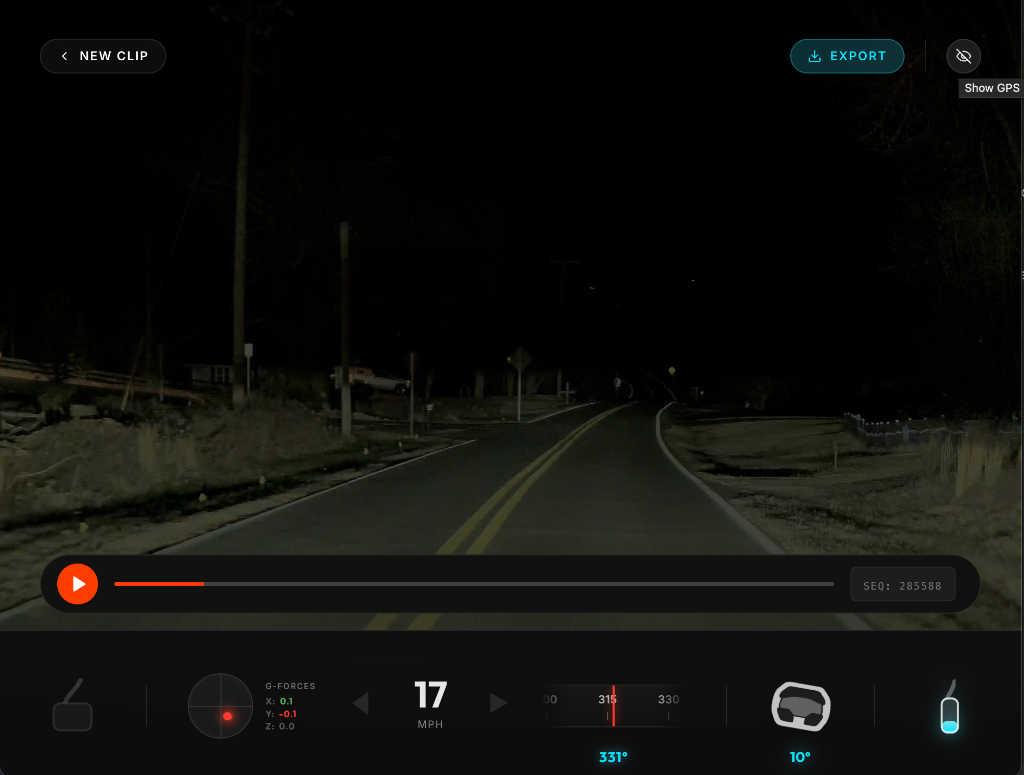
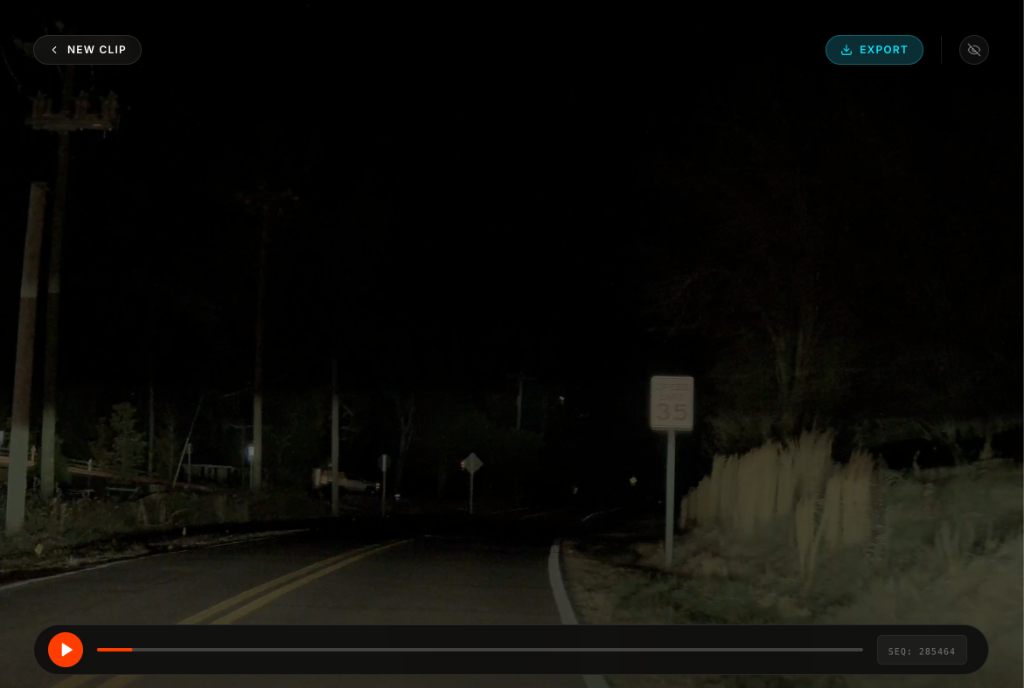
Add Drive Indicator (P,R,N,D)

diff --git a/src/App.tsx b/src/App.tsx
@@ -422,7 +422,9 @@ function App() {
                         </div>
                     </div>
 
-                    <div className="flex-1 flex flex-col items-center justify-center self-center">
+                    <div className="flex-1 flex flex-col items-center justify-start self-stretch">
+                        <div className="h-6 mb-2 invisible" /> {/* Top Spacer matching side components */}
+
                         <div className="flex items-center gap-10">
                             {/* Left Blinker */}
                             <div className={`text-2xl transition-all duration-200 transform ${hudMetadata?.blinkerOnLeft ? 'text-[#4caf50] drop-shadow-[0_0_8px_#4caf50] opacity-100 scale-110' : 'text-white/10 scale-100'}`}>
@@ -430,10 +432,20 @@ function App() {
                             </div>
 
                             <div className="flex flex-col items-center">
-                                <span className="text-4xl font-bold font-outfit text-white/90 leading-none">
-                                    {hudMetadata ? Math.round(hudMetadata.vehicleSpeedMps * 2.237) : 0}
-                                </span>
-                                <span className="text-[10px] opacity-50 uppercase tracking-widest font-inter mt-1">mph</span>
+                                <div className="h-16 flex flex-col justify-center items-center">
+                                    <span className="text-4xl font-bold font-outfit text-white/90 leading-none">
+                                        {hudMetadata ? Math.round(hudMetadata.vehicleSpeedMps * 2.237) : 0}
+                                    </span>
+                                    <span className="text-[10px] opacity-50 uppercase tracking-widest font-inter mt-1">mph</span>
+                                </div>
+
+                                <div className="mt-4 h-5 flex items-center justify-center">
+                                    {hudMetadata && (
+                                        <span className="text-[14px] font-extrabold text-tesla-blue font-outfit drop-shadow-[0_0_8px_#00E5FF] transition-all duration-300">
+                                            {hudMetadata.gearState.replace('GEAR_', '')[0]}
+                                        </span>
+                                    )}
+                                </div>
                             </div>
 
                             {/* Right Blinker */}

diff --git a/src/utils/telemetryRenderer.ts b/src/utils/telemetryRenderer.ts
@@ -150,6 +150,16 @@ function drawCenterCluster(
     ctx.font = `600 ${s(14)}px ${font}`;
     ctx.fillText('MPH', 0, s(45));
 
+    // Gear State
+    if (data.gearState) {
+        const gearLetter = data.gearState.replace('GEAR_', '')[0];
+        ctx.fillStyle = '#00E5FF';
+        ctx.shadowColor = '#00E5FF';
+        ctx.shadowBlur = s(8);
+        ctx.font = `bold ${s(12)}px ${font}`;
+        ctx.fillText(gearLetter, 0, s(56));
+    }
+
     // Blinkers
     const blinkerOffset = s(80);
     const arrowSize = s(32);
@@ -506,7 +516,7 @@ function drawCompass(
     ctx.shadowBlur = 0;
     ctx.fillStyle = '#00E5FF';
     ctx.font = `800 ${s(16)}px ${font}`;
-    ctx.fillText(`${Math.round(heading)}°`, 0, s(40));
+    ctx.fillText(`${Math.round(heading)}°`, 0, s(50));
 
     ctx.restore();
 }
@@ -584,7 +594,7 @@ function drawSteeringWheel(
     ctx.fillStyle = '#00E5FF'; // Blue logic
     ctx.shadowColor = 'rgba(0, 229, 255, 0.4)';
     ctx.shadowBlur = s(5);
-    ctx.fillText(`${Math.round(angle)}°`, 0, size / 2 + s(8));
+    ctx.fillText(`${Math.round(angle)}°`, 0, s(50));
 
     ctx.restore();
 }
